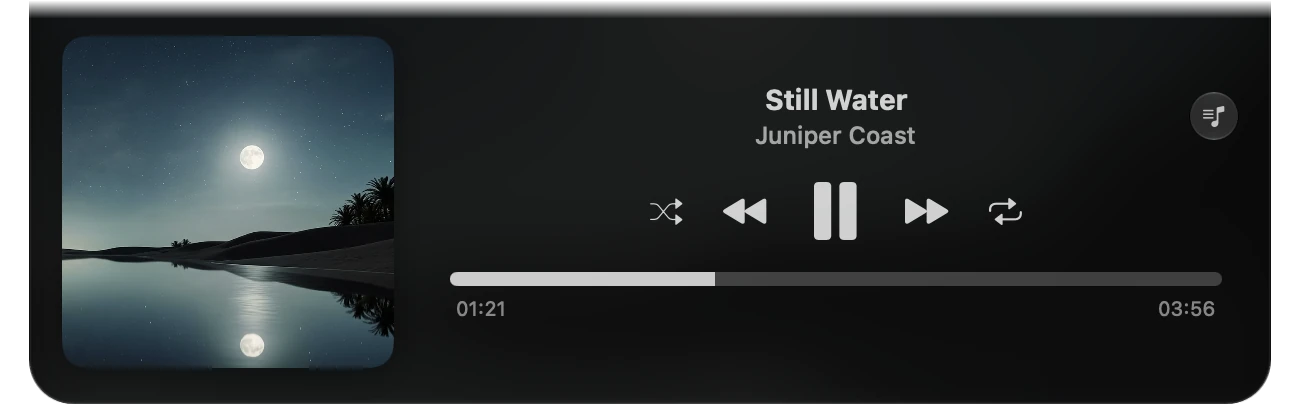
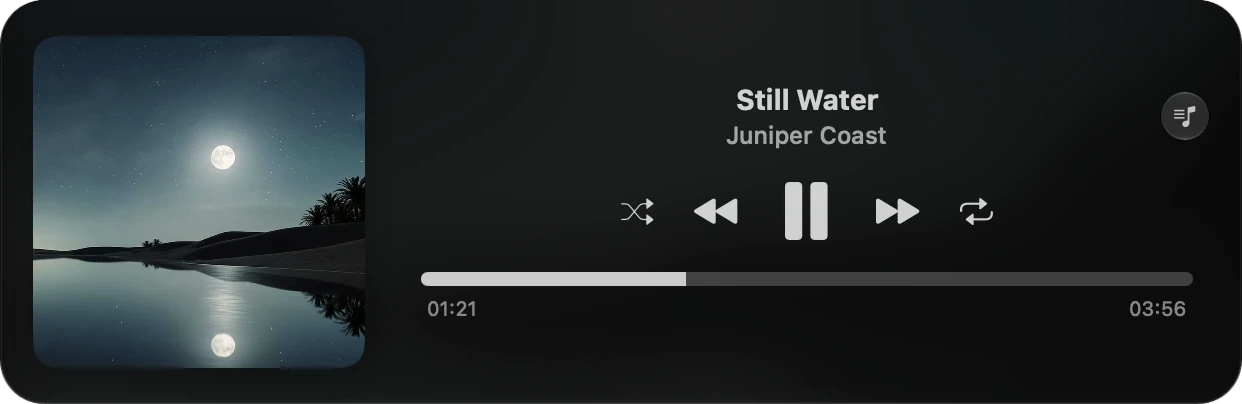
feat(site): a MacBook hero and Apple's light sections
The hero is now a 14-inch MacBook Pro drawn to scale, with the real
island capture sized in macOS points against the notch: Claude works in
the closed notch for a beat, then the island opens down out of it. The
screen shows the generated moonlit oasis from earlier in the redesign.

Summaries, Music and Personalize sit on Apple's #f5f5f7 between the
black sections. On that page the summary and player cards are free
standing (no notch fade on top) with a soft shadow, and on phones each
shot runs to the screen edge instead of fading into the grey.

diff --git a/website/src/site.css b/website/src/site.css
@@ -105,26 +105,84 @@ h1, h2, p, figure { margin: 0; }
   background:
     radial-gradient(42% 120% at 50% 0%, rgba(255, 255, 255, 0.13), rgba(255, 255, 255, 0.035) 55%, transparent 78%);
 }
-/* a faint floor under shots that sit rather than hang */
-.reflect { -webkit-box-reflect: below 2px linear-gradient(transparent 90%, rgba(255, 255, 255, 0.07)); }
+/* a dark card resting on a light page */
+.lift { border-radius: 22px; filter: drop-shadow(0 28px 36px rgba(0, 0, 0, 0.16)) drop-shadow(0 6px 12px rgba(0, 0, 0, 0.1)); }
 
 .crop { max-width: 100%; min-width: 0; }
 
 /* ---------- Hero ---------- */
 
-.hero { position: relative; padding-top: var(--nav-h); }
-/* light from the top of the screen, behind the island's glass */
-.hero::before {
-  content: ""; position: absolute; top: var(--nav-h); left: 50%; transform: translateX(-50%);
-  width: min(1200px, 100%); height: 560px; pointer-events: none;
-  background: radial-gradient(44% 70% at 50% 0%, rgba(255, 255, 255, 0.13), rgba(255, 255, 255, 0.03) 55%, transparent 76%);
+.hero { padding-top: calc(var(--nav-h) + clamp(28px, 4.5vh, 56px)); text-align: center; }
+.hero-title { margin-bottom: clamp(28px, 4vh, 48px); }
+.hero-copy { margin-top: clamp(40px, 5vw, 64px); }
+.hero-copy .lede { margin: 0 auto; max-width: 27em; }
+.hero-copy .cta { justify-content: center; }
+
+/* ---------- The MacBook: a 14-inch MacBook Pro, straight on ----------
+   Sized so the whole machine fits under the headline on a laptop screen.
+   The lid is 96.5% of the width, the screen 3024 x 1964 behind a thin
+   black bezel, and --pt is one macOS point (the screen is 1512 pt wide). */
+
+.mbp {
+  position: relative; margin: 0 auto;
+  width: min(1040px, 100%, calc((100svh - var(--nav-h) - 170px) * 1.47));
+  container-type: inline-size;
 }
-.hero-shot { position: relative; display: flex; justify-content: center; }
-.hero-copy {
-  position: relative; display: grid; grid-template-columns: minmax(0, 7fr) minmax(0, 5fr);
-  column-gap: 48px; align-items: end; margin-top: clamp(56px, 7vw, 104px);
+.mbp-lid {
+  position: relative; width: 96.5cqw; margin: 0 auto;
+  padding: 1.5cqw 1.57cqw 2.9cqw;
+  border-radius: 2.6cqw 2.6cqw 0.9cqw 0.9cqw;
+  background: #050506;
+  /* the aluminium rim around the glass, and a soft shade beneath */
+  box-shadow: 0 0 0 0.18cqw #8e9095, 0 0 0 0.3cqw #2a2b2e, 0 2cqw 6cqw rgba(0, 0, 0, 0.6);
 }
-.hero-side .lede { margin-top: 0; }
+.mbp-screen {
+  --pt: calc(93.36cqw / 1512);
+  position: relative; aspect-ratio: 3024 / 1964; overflow: hidden;
+  border-radius: 1.2cqw 1.2cqw 0 0;
+  background: #0b1418;
+  /* keep the captures crisp while the lid moves */
+  isolation: isolate;
+}
+.mbp-wall { position: absolute; inset: 0; width: 100%; height: 100%; object-fit: cover; }
+.mbp-menubar {
+  position: absolute; inset: 0 0 auto 0; height: calc(var(--pt) * 34);
+  display: flex; align-items: center; justify-content: space-between;
+  padding: 0 calc(var(--pt) * 16) 0 calc(var(--pt) * 20);
+  color: rgba(255, 255, 255, 0.92);
+  font: 500 calc(var(--pt) * 13) / 1 var(--font); letter-spacing: 0;
+  text-shadow: 0 0 calc(var(--pt) * 6) rgba(0, 0, 0, 0.35);
+  white-space: nowrap;
+}
+.mbp-menu, .mbp-status { display: flex; align-items: center; gap: calc(var(--pt) * 18); }
+.mbp-menu b { font-weight: 700; }
+.mbp-status { gap: calc(var(--pt) * 14); }
+.mbp-battery { width: calc(var(--pt) * 24); height: calc(var(--pt) * 12); }
+.mbp-wifi { width: calc(var(--pt) * 16); height: calc(var(--pt) * 12); }
+.mbp-notch {
+  position: absolute; top: 0; left: 50%; transform: translateX(-50%);
+  width: calc(var(--pt) * 188); height: calc(var(--pt) * 32);
+  border-radius: 0 0 calc(var(--pt) * 9) calc(var(--pt) * 9);
+  background: #000;
+}
+.mbp-pill, .mbp-island {
+  position: absolute; top: 0; left: 50%; transform: translateX(-50%); height: auto;
+}
+.mbp-pill { width: calc(var(--pt) * 468); }
+.mbp-island { width: calc(var(--pt) * 650); }
+/* the bottom case: a thin slab a little wider than the lid, with the
+   scoop you open it by */
+.mbp-base {
+  position: relative; width: 100cqw; height: 1.9cqw; margin-top: -0.2cqw;
+  border-radius: 0.3cqw 0.3cqw 40% 40% / 0.3cqw 0.3cqw 100% 100%;
+  background: linear-gradient(#d9dadd, #b7b9bd 40%, #8f9196 75%, #55565a);
+  box-shadow: inset 0 0.08cqw 0 rgba(255, 255, 255, 0.85), 0 1.2cqw 2.4cqw rgba(0, 0, 0, 0.55);
+}
+.mbp-base::before {
+  content: ""; position: absolute; top: 0; left: 50%; transform: translateX(-50%);
+  width: 13cqw; height: 0.62cqw; border-radius: 0 0 0.9cqw 0.9cqw;
+  background: linear-gradient(#6d6f73, #a3a5a9);
+}
 
 /* ---------- Features ---------- */
 
@@ -152,6 +210,14 @@ h1, h2, p, figure { margin: 0; }
 /* meetings: the pill, then the banner it opens into */
 .meeting { display: flex; flex-direction: column; gap: 40px; width: min(650px, 100%); }
 .meeting .edge { min-height: 88px; }
+
+/* ---------- Bands: black, and Apple's light grey ---------- */
+
+.band { padding-bottom: var(--sec); }
+.band-light {
+  --text: #1d1d1f; --sub: #6e6e73; --dim: #6e6e73; --link: #0066cc; --rule: rgba(0, 0, 0, 0.12);
+  background: #f5f5f7; color: var(--text); color-scheme: light;
+}
 
 /* ---------- Download ---------- */
 
@@ -181,11 +247,20 @@ h1, h2, p, figure { margin: 0; }
 .js .feature-stage.reveal.in { transform: none; }
 .js .state.reveal:nth-child(2) { transition-delay: 0.08s; }
 .js .state.reveal:nth-child(3) { transition-delay: 0.16s; }
-/* the island opens down out of the notch */
+/* the MacBook arrives, Claude works in the closed notch for a beat, and
+   then the island opens down out of it */
 @media (prefers-reduced-motion: no-preference) {
-  .js .hero-shot .shot { animation: open-down 0.9s var(--ease) 0.1s both; }
+  .js .hero-title { animation: rise 0.9s var(--ease) both; }
+  .js .mbp { animation: rise 1.1s var(--ease) 0.12s both; }
+  .js .hero-copy { animation: rise 1.1s var(--ease) 0.3s both; }
+  .js .mbp-island { animation: open-down 0.85s var(--ease) 1.5s both; }
 }
-@keyframes open-down { from { clip-path: inset(0 8% 100% 8% round 0 0 22px 22px); } to { clip-path: inset(0 0 0 0 round 0); } }
+@keyframes rise { from { opacity: 0; transform: translateY(32px); } to { opacity: 1; transform: none; } }
+@keyframes open-down {
+  from { opacity: 0; clip-path: inset(0 14% 89% 14% round 0 0 calc(var(--pt) * 14) calc(var(--pt) * 14)); }
+  22% { opacity: 1; }
+  to { opacity: 1; clip-path: inset(0 0 0 0 round 0 0 calc(var(--pt) * 20) calc(var(--pt) * 20)); }
+}
 
 @media (prefers-reduced-motion: reduce) {
   .js .reveal, .js .feature-stage.reveal { opacity: 1; transform: none; transition: none; }
@@ -198,7 +273,6 @@ h1, h2, p, figure { margin: 0; }
   .feature-in { display: block; }
   .feature-stage, .feature-flip .feature-stage { justify-content: flex-start; margin-top: 56px; }
   .feature-wide .feature-text { padding-top: 0; }
-  .hero-copy { grid-template-columns: minmax(0, 1fr); row-gap: 24px; }
   .state { grid-template-columns: minmax(0, 1fr); }
   .state-name { padding-bottom: 20px; }
   .state .edge { justify-content: flex-start; background: radial-gradient(60% 120% at 30% 0%, rgba(255, 255, 255, 0.13), rgba(255, 255, 255, 0.035) 55%, transparent 78%); }
@@ -232,9 +306,18 @@ h1, h2, p, figure { margin: 0; }
   }
   /* drawn at 0.9 here, so the Sync row fits a phone */
   .feature-wide .shot-settings { width: 812px; }
-  .reflect { -webkit-box-reflect: none; }
-  .hero-shot { justify-content: flex-start; padding-left: var(--pad); }
-  .hero-shot .crop { width: calc(100% + 0px); }
   .meeting { gap: 28px; }
   .cta .btn { flex: 1 1 100%; justify-content: center; }
+  /* on the light page a dark shot fading out reads as a smear, so there the
+     window runs to the edges of the phone instead, and the Settings window
+     runs into the section below */
+  .band-light .crop {
+    flex: none; width: calc(100% + 2 * var(--pad)); max-width: none;
+    margin: -48px calc(-1 * var(--pad)); padding-block: 48px;
+    -webkit-mask-image: none; mask-image: none;
+  }
+  .band-light .crop-cut { height: calc(var(--h) + 48px); margin-bottom: 0; padding-bottom: 0; }
+  .band-light .crop .shot { margin-left: calc(var(--pad) - var(--x, 0px)); }
+  .band-light .crop-to .shot { margin-left: min(var(--pad), calc(100% - var(--to))); }
+  .band-light:has(.crop-cut) { padding-bottom: 0; }
 }

diff --git a/website/src/components/MacBook.tsx b/website/src/components/MacBook.tsx
@@ -1,0 +1,36 @@
+import type { ReactNode } from 'react';
+
+/* A 14-inch MacBook Pro seen straight on, drawn to its real proportions.
+   Everything on the screen is sized in --pt, one macOS point at this
+   size, so the real captures inside sit at true scale against the notch. */
+export default function MacBook({ label, children }: { label: string; children: ReactNode }) {
+  return (
+    <figure className="mbp" role="img" aria-label={label}>
+      <div className="mbp-lid">
+        <div className="mbp-screen">
+          <img
+            className="mbp-wall"
+            src="/assets/wallpaper-2000.webp"
+            srcSet="/assets/wallpaper-1100.webp 1100w, /assets/wallpaper-2000.webp 2000w"
+            sizes="(max-width: 1100px) 100vw, 1000px"
+            alt=""
+            decoding="async"
+          />
+          <div className="mbp-menubar" aria-hidden="true">
+            <span className="mbp-menu">
+              <b>Ghostty</b><span>Shell</span><span>Edit</span><span>View</span><span>Window</span><span>Help</span>
+            </span>
+            <span className="mbp-status">
+              <svg viewBox="0 0 24 12" className="mbp-battery"><rect x="0.5" y="0.5" width="20" height="11" rx="3" fill="none" stroke="currentColor" strokeOpacity="0.5" /><rect x="2" y="2" width="14" height="8" rx="1.6" fill="currentColor" /><rect x="21.6" y="4" width="1.6" height="4" rx="0.8" fill="currentColor" fillOpacity="0.5" /></svg>
+              <svg viewBox="0 0 16 12" className="mbp-wifi"><path d="M8 11.2 5.6 8.6a3.4 3.4 0 0 1 4.8 0L8 11.2Zm-4.2-4.4-1.4-1.5a7.9 7.9 0 0 1 11.2 0l-1.4 1.5a5.9 5.9 0 0 0-8.4 0ZM.6 3.4 0 2.8 0 2.7a11.3 11.3 0 0 1 16 0l-.6.7-.8.8a9.6 9.6 0 0 0-13.2 0l-.8-.8Z" fill="currentColor" /></svg>
+              <span>Sat 18 Oct</span><span>9:41</span>
+            </span>
+          </div>
+          <div className="mbp-notch" />
+          {children}
+        </div>
+      </div>
+      <div className="mbp-base" />
+    </figure>
+  );
+}

diff --git a/website/src/sections/Hero.tsx b/website/src/sections/Hero.tsx
@@ -1,22 +1,17 @@
 import { useLatestRelease } from '../hooks/useLatestRelease';
-import { Shot } from '../components/Shot';
-import { Crop } from '../components/Feature';
+import MacBook from '../components/MacBook';
 
 export default function Hero() {
   const { downloadUrl } = useLatestRelease();
   return (
     <section className="hero" aria-labelledby="hero-title">
-      <div className="hero-shot">
-        <Crop>
-          <Shot
-            name="island" eager
-            alt="The NotchTune island opened from the notch: usage limits at the top, then four agent sessions. Claude is running swift test in api, Codex fixed the checkout button in web, Claude wrote the release notes in docs, and Codex renamed the color tokens in design-system."
-          />
-        </Crop>
-      </div>
-      <div className="frame hero-copy">
-        <h1 id="hero-title" className="h1 reveal">The calm at the top of your screen.</h1>
-        <div className="hero-side reveal">
+      <div className="frame">
+        <h1 id="hero-title" className="h1 hero-title">The calm at the top of your screen.</h1>
+        <MacBook label="A MacBook Pro with NotchTune open under the notch: usage limits at the top, then four agent sessions. Claude is running swift test in api, Codex fixed the checkout button in web, Claude wrote the release notes in docs, and Codex renamed the color tokens in design-system.">
+          <img className="mbp-pill" src="/assets/shots/pill-working.webp" width={468} height={38} alt="" />
+          <img className="mbp-island" src="/assets/shots/island.webp" width={650} height={354} alt="" fetchPriority="high" />
+        </MacBook>
+        <div className="hero-copy">
           <p className="lede">NotchTune keeps your AI coding agents and your music in the notch, so you can stay in your work.</p>
           <p className="cta">
             <a className="btn" href={downloadUrl}>Download for Mac</a>

diff --git a/website/src/App.tsx b/website/src/App.tsx
@@ -17,12 +17,20 @@ export default function App() {
       <Nav />
       <main id="main">
         <span id="top" />
-        <Hero />
-        <Agents />
-        <Summaries />
-        <Music />
-        <Meetings />
-        <Personalization />
+        <div className="band">
+          <Hero />
+          <Agents />
+        </div>
+        <div className="band band-light">
+          <Summaries />
+          <Music />
+        </div>
+        <div className="band">
+          <Meetings />
+        </div>
+        <div className="band band-light">
+          <Personalization />
+        </div>
         <Download />
       </main>
       <Footer />

diff --git a/website/src/sections/Music.tsx b/website/src/sections/Music.tsx
@@ -8,9 +8,9 @@ export default function Music() {
       title="Music without switching apps."
       line="Spotify or Apple Music, right under the notch: the cover, the controls, and a two-finger swipe to skip."
     >
-      <Crop x={205}>
+      <Crop x={206}>
         <Shot
-          name="player" className="reflect"
+          name="player" className="lift"
           alt="The Music tab under the notch, playing Still Water by Juniper Coast at 1:21 of 3:56, with shuffle, previous, pause, next and repeat."
         />
       </Crop>

diff --git a/website/src/sections/Personalization.tsx b/website/src/sections/Personalization.tsx
@@ -10,7 +10,7 @@ export default function Personalization() {
     >
       <Crop to={604} h={700}>
         <Shot
-          name="settings" className="reflect"
+          name="settings"
           alt="NotchTune Settings on Personalization: live previews of the MacBook notch and an external display, linked with Sync on, then a grid of twenty pixel characters with Dino selected, and Character motion set to Calm."
         />
       </Crop>

diff --git a/website/src/sections/Summaries.tsx b/website/src/sections/Summaries.tsx
@@ -10,7 +10,7 @@ export default function Summaries() {
     >
       <Crop>
         <Shot
-          name="summary" className="reflect"
+          name="summary" className="lift"
           alt="A completion card: Claude Code finished in web. Edited 4 files, tests passed, 3 minutes 12 seconds. The reply says checkout now loads in 1.2 seconds instead of 3.4, with Jump to Ghostty and Reply."
         />
       </Crop>

diff --git a/website/src/components/Shot.tsx b/website/src/components/Shot.tsx
@@ -7,8 +7,8 @@ export const SHOTS = {
   'pill-waiting': { w: 488, h: 38 },
   'pill-finished': { w: 492, h: 38 },
   'pill-meeting': { w: 464, h: 38 },
-  summary: { w: 550, h: 172 },
-  player: { w: 650, h: 203 },
+  summary: { w: 521, h: 171 },
+  player: { w: 621, h: 202 },
   banner: { w: 650, h: 75 },
   settings: { w: 902, h: 1212 },
 } as const;
